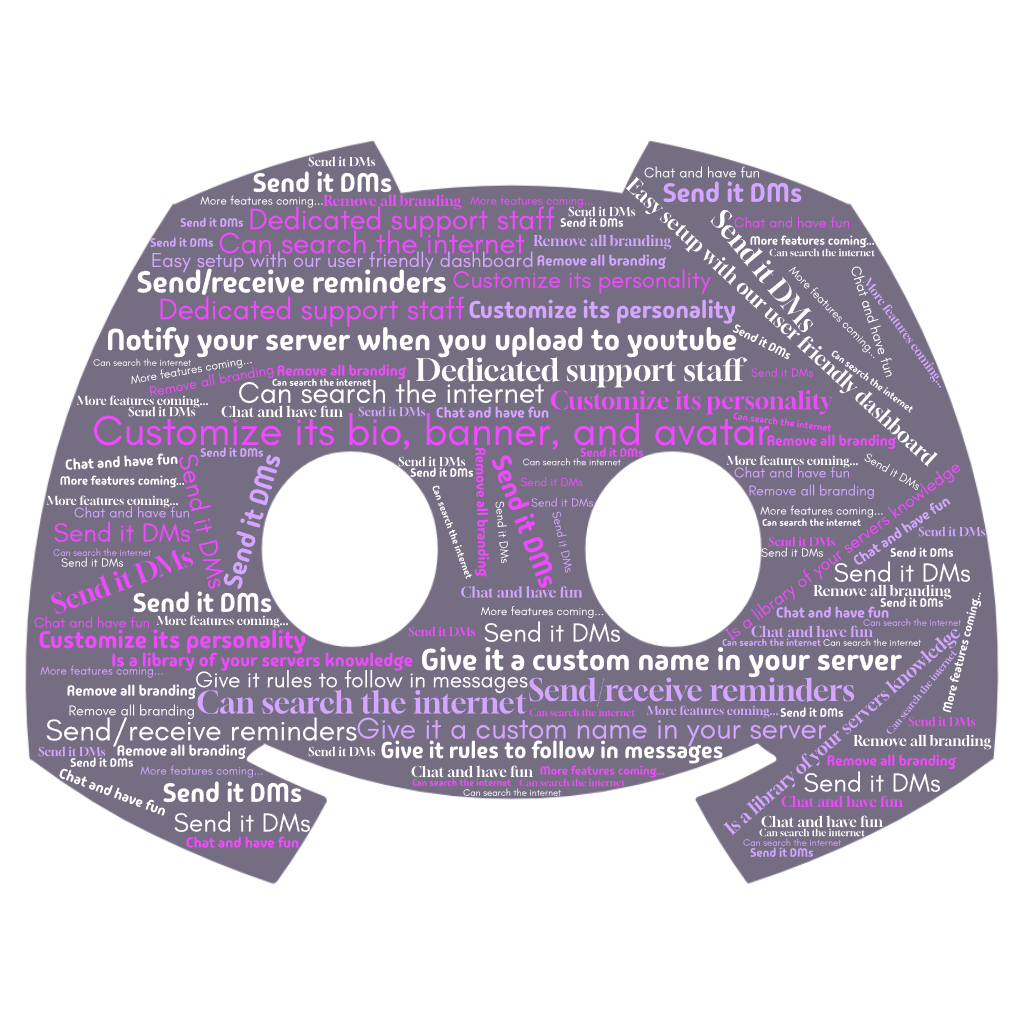
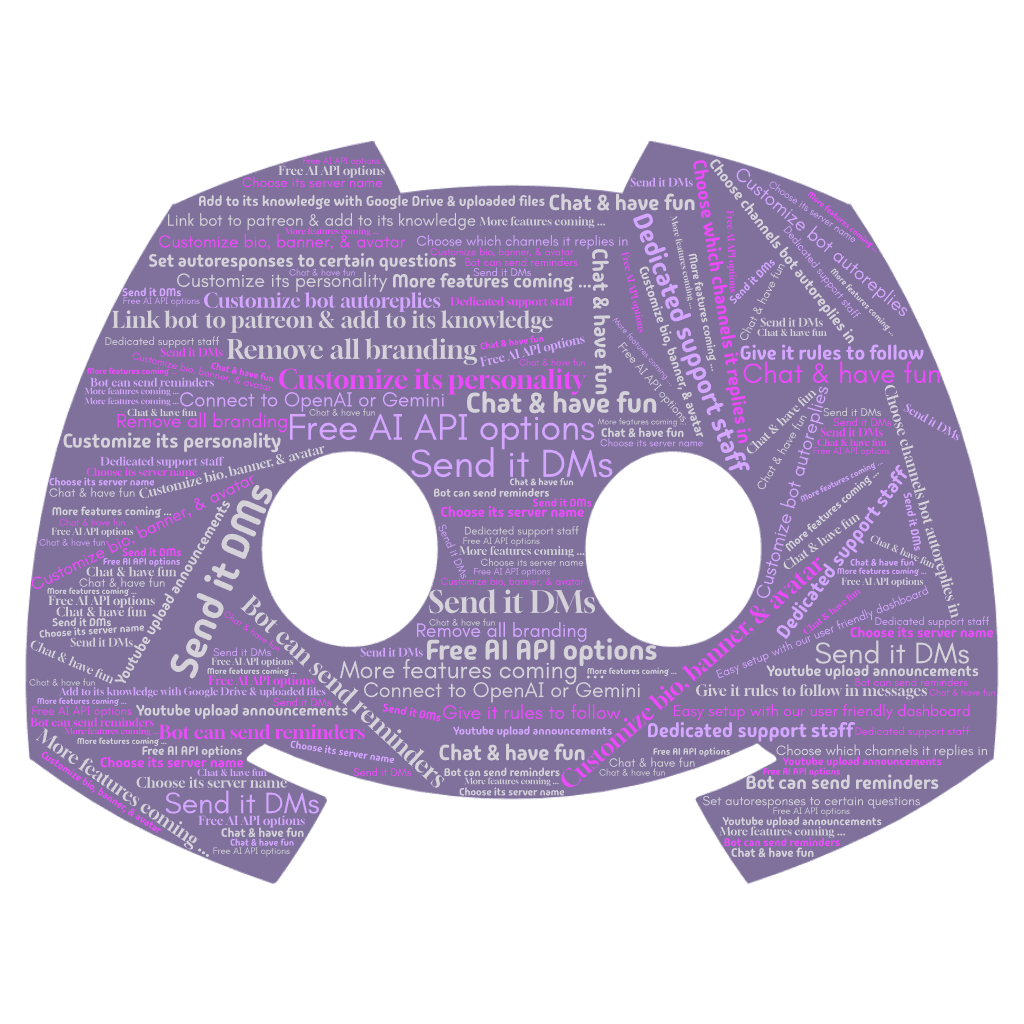
Replace homepage word cloud artwork

Changed region(s): [[0.0312, 0.1562, 0.9688, 0.8438]]

diff --git a/dashboard/index.html b/dashboard/index.html
@@ -4,11 +4,11 @@
 <main>
 <section id="setup-notice" class="notice" hidden></section>
 <section id="server-screen">
-  <div class="landing-hero"><div class="intro"><p class="eyebrow">SERVER CONTROL CENTER</p><h1><span class="heading-line">Choose a server</span><br><em>to get started.</em></h1><p class="sub">Your community has loads of fun incoming with our bot powered by AI with a fully customizable personality.</p></div><figure class="feature-wordcloud feature-wordcloud-hero"><img src="/assets/wordcloud.png?v=2" alt="TheSmartBot feature word cloud: customizable bio, banner and avatar, Gemini integration, reminders, YouTube notifications, server knowledge, DMs, support staff, and more."></figure></div>
+  <div class="landing-hero"><div class="intro"><p class="eyebrow">SERVER CONTROL CENTER</p><h1><span class="heading-line">Choose a server</span><br><em>to get started.</em></h1><p class="sub">Your community has loads of fun incoming with our bot powered by AI with a fully customizable personality.</p></div><figure class="feature-wordcloud feature-wordcloud-hero"><img src="/assets/wordcloud.png?v=3" alt="TheSmartBot feature word cloud: customizable bio, banner and avatar, Gemini integration, reminders, YouTube notifications, server knowledge, DMs, support staff, and more."></figure></div>
   <div id="signed-out" class="signed-out"><div class="empty-icon">✦</div><h2>Sign in to see your servers</h2><p>We'll only show servers you manage where TheSmartBot is already installed.</p></div>
   <div id="server-list" class="server-grid" hidden></div>
   <div id="empty-servers" class="empty-state" hidden><div class="empty-icon">+</div><h2>No connected servers yet</h2><p>Install TheSmartBot in a server you manage, then come back here to customize it.</p><a id="invite" class="button" href="/auth/invite">Add TheSmartBot to a server</a><small class="empty-refresh-note">If your server doesn't appear after you've connected, try to refresh this page.</small></div>
-  <figure class="feature-wordcloud feature-wordcloud-empty" aria-hidden="true"><img src="/assets/wordcloud.png?v=2" alt=""></figure>
+  <figure class="feature-wordcloud feature-wordcloud-empty" aria-hidden="true"><img src="/assets/wordcloud.png?v=3" alt=""></figure>
   <p id="server-blessing" class="server-blessing" hidden>Stay up and stay blessed.</p>
 </section>
 <section id="workspace" hidden>

diff --git a/functions/_lib/releases.js b/functions/_lib/releases.js
@@ -2,6 +2,9 @@
 // Earlier version labels were assigned when Version History was introduced;
 // their timestamps are Git records, not confirmed deployment times.
 export const releases = [
+  { version: "2.5.1", at: "2026-10-21T23:38:58Z", historical: false, changes: [
+    "Replaced the homepage word cloud with the updated artwork."
+  ] },
   { version: "2.5.0", at: "2026-10-21T22:30:21Z", historical: false, changes: [
     "Forum follow-ups now include recent messages from participants and the bot, keeping the latest comment central while preserving the original discussion.",
     "The bot can reuse verified research for additional examples and search for missing details or new questions. Earlier bot answers provide context, not evidence; current knowledge and citation settings still apply.",
